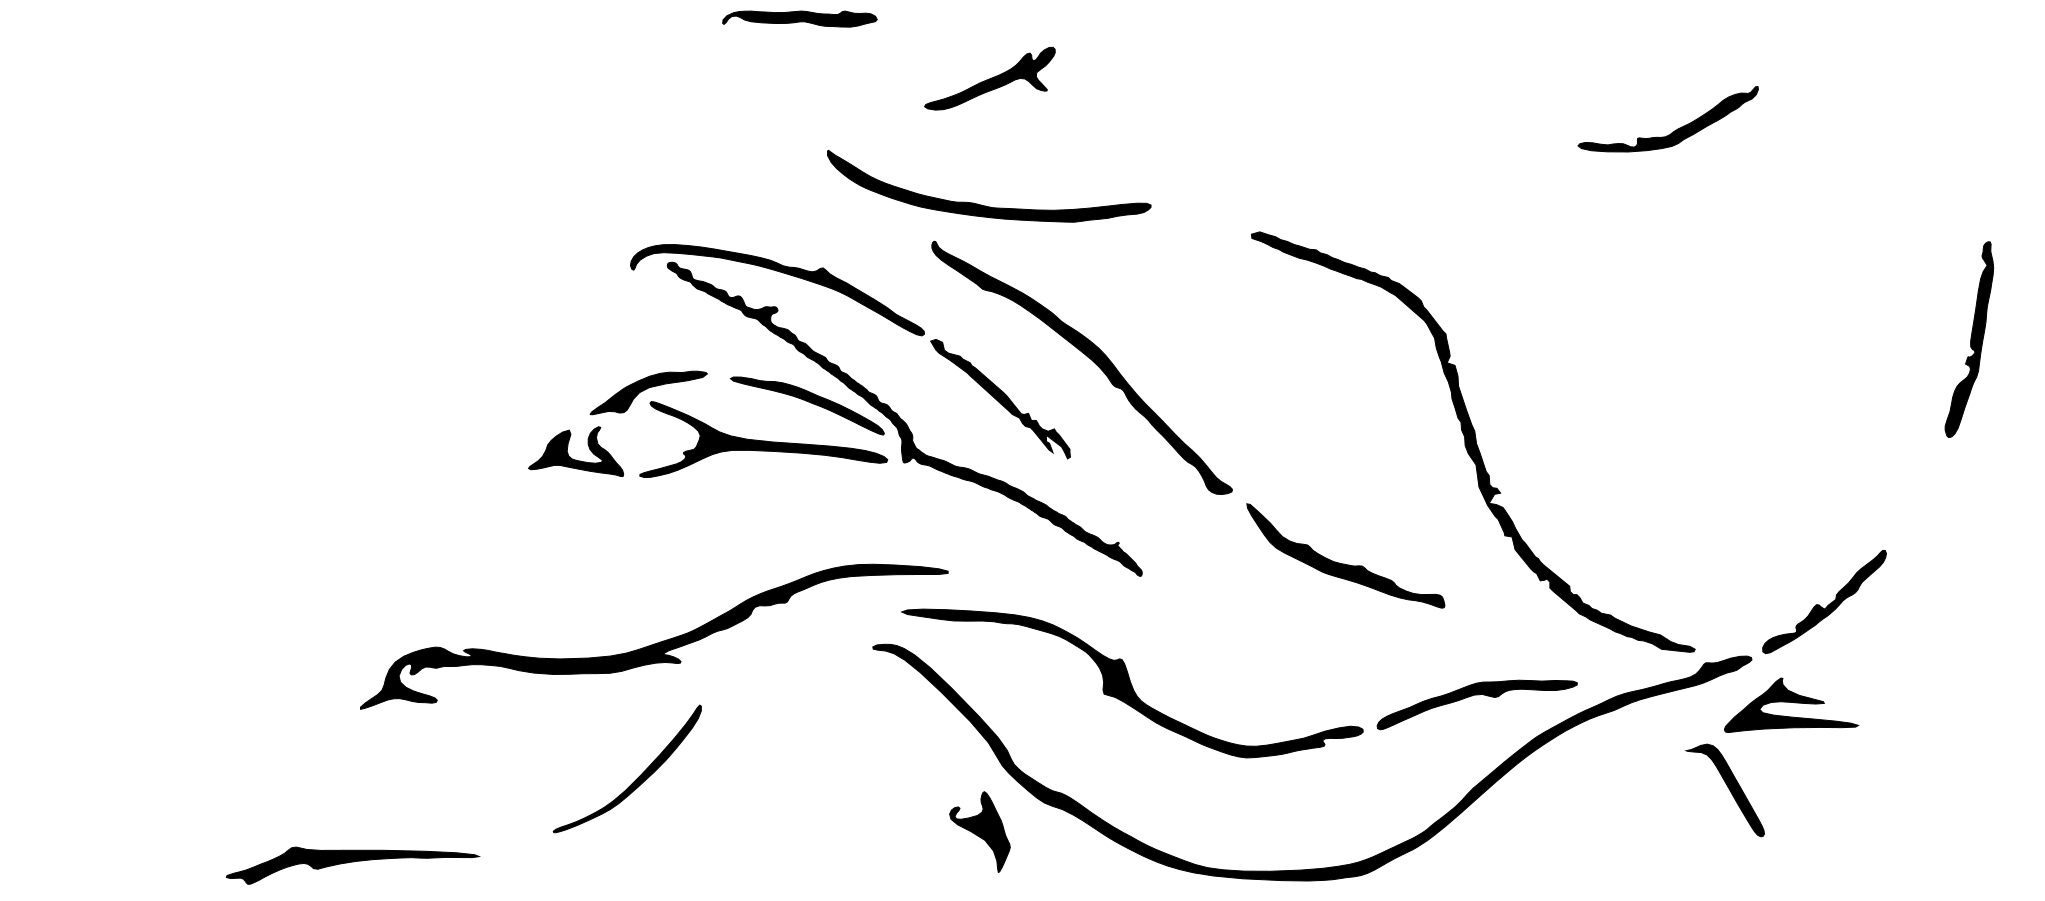
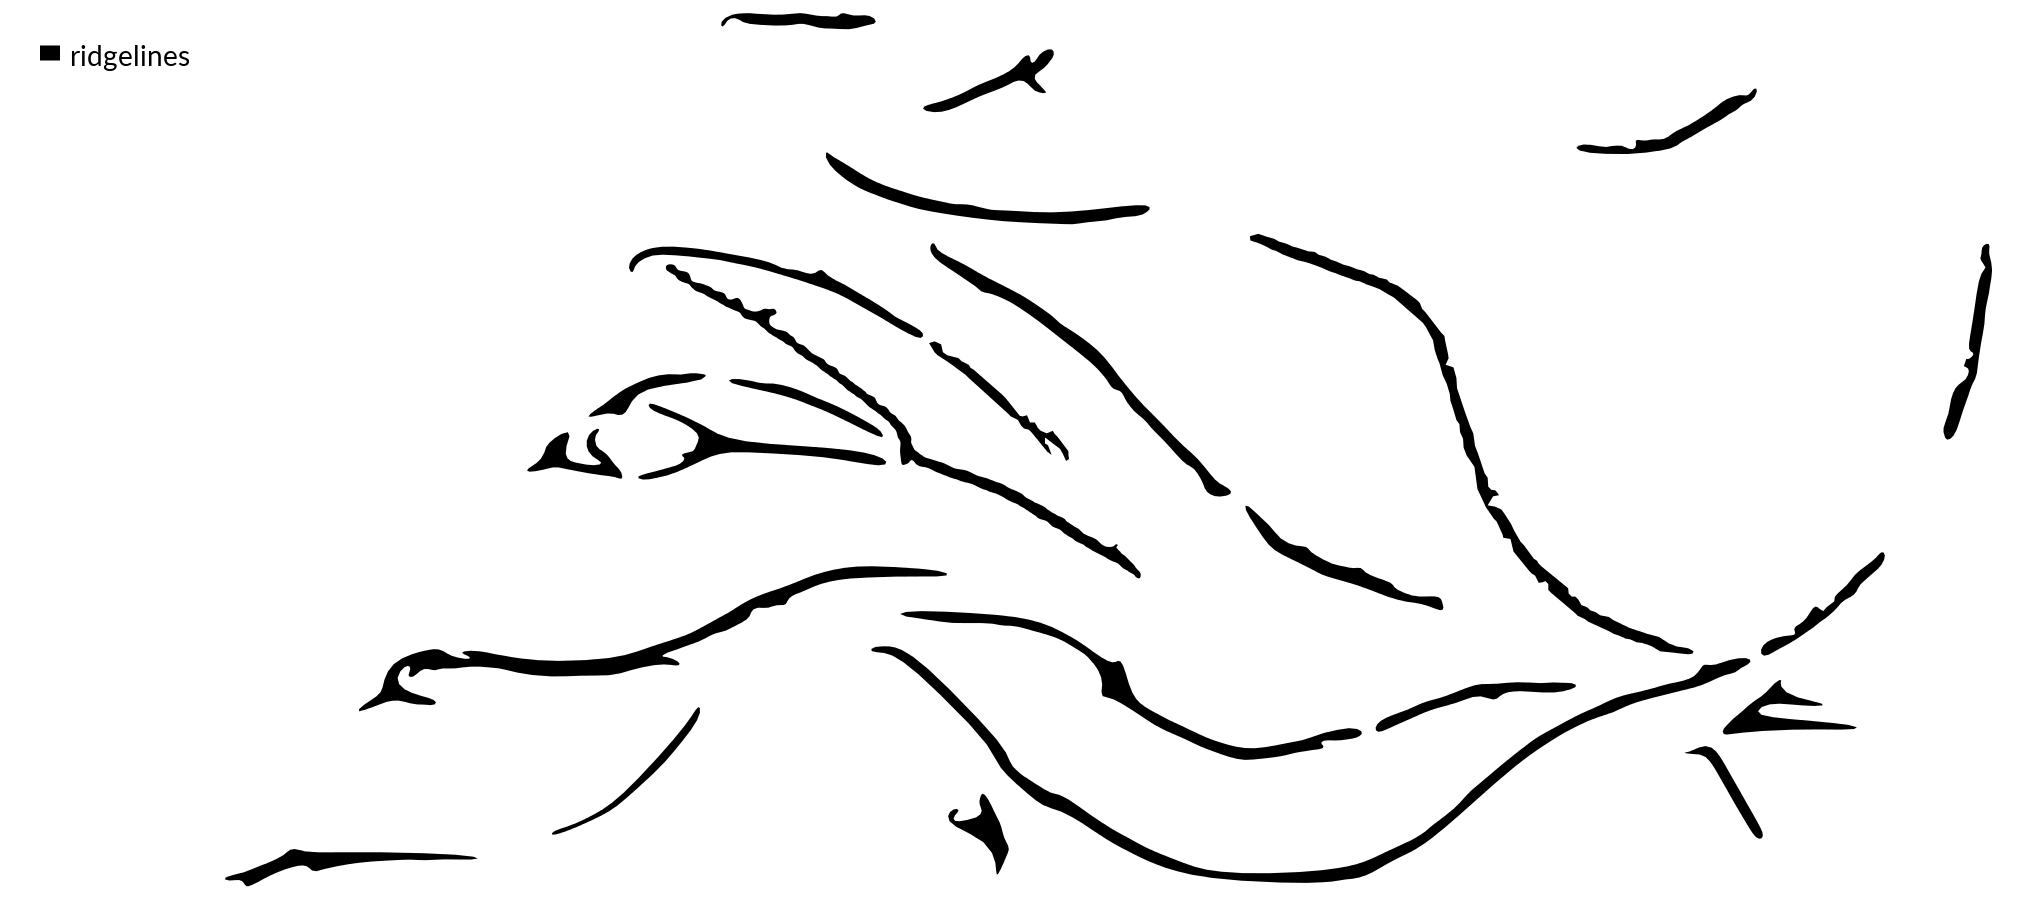
refactoring

diff --git a/_pages/courses.md b/_pages/courses.md
@@ -9,15 +9,15 @@ featured_image: images/
 
 ---
 
-[GIS for Designers](project/gis-for-designers): A guide to Geographic Information Systems for landscape architects, urban planners, and other designers. Topics include terrain modeling, hydrology, landscape ecology, and urban analytics. Software covered includes GRASS GIS, QGIS, and ArcGIS. Tutorials are posted on [<i class="fab fa-youtube"></i>](https://www.youtube.com/playlist?list=PLOZRfOojyTZooO3HMd8dTp8Wk37cdbY6C) Youtube and [<i class="fab fa-vimeo-v"></i>](https://vimeo.com/showcase/7356098) Vimeo.
+[GIS for Designers](gis-for-designers): A guide to Geographic Information Systems for landscape architects, urban planners, and other designers. Topics include terrain modeling, hydrology, landscape ecology, and urban analytics. Software covered includes GRASS GIS, QGIS, and ArcGIS. Tutorials are posted on [<i class="fab fa-youtube"></i>](https://www.youtube.com/playlist?list=PLOZRfOojyTZooO3HMd8dTp8Wk37cdbY6C) Youtube and [<i class="fab fa-vimeo-v"></i>](https://vimeo.com/showcase/7356098) Vimeo.
 
 ---
 
-[Generative Landscapes](project/generative-landscapes): A guide to visual programming for 3D modeling, geospatial modeling, and geospatial analysis of landscapes. Software covered includes Rhino, Grasshopper, GRASS GIS, ArcGIS, and Metashape. Tutorials are posted on [<i class="fab fa-youtube"></i>](https://www.youtube.com/playlist?list=PLOZRfOojyTZq7UyGd-uTx1HfQ2g3Bdo5y) Youtube and [<i class="fab fa-vimeo-v"></i>](https://vimeo.com/showcase/7366606) Vimeo.
+[Generative Landscapes](generative-landscapes): A guide to visual programming for 3D modeling, geospatial modeling, and geospatial analysis of landscapes. Software covered includes Rhino, Grasshopper, GRASS GIS, ArcGIS, and Metashape. Tutorials are posted on [<i class="fab fa-youtube"></i>](https://www.youtube.com/playlist?list=PLOZRfOojyTZq7UyGd-uTx1HfQ2g3Bdo5y) Youtube and [<i class="fab fa-vimeo-v"></i>](https://vimeo.com/showcase/7366606) Vimeo.
 
 ---
 
-[Digital Landscapes](project/digital-landscapes): An introduction to 3D modeling and 3D rendering landscapes. Software covered includes Rhino, Lumion, Thea Render, and Adobe CC. Tutorials are posted on [<i class="fab fa-youtube"></i>](https://www.youtube.com/playlist?list=PLOZRfOojyTZpMqTLmKCTasF9LkPIYLoHQ) Youtube and [<i class="fab fa-vimeo-v"></i>](https://vimeo.com/showcase/7366624) Vimeo.
+[Digital Landscapes](digital-landscapes): An introduction to 3D modeling and 3D rendering landscapes. Software covered includes Rhino, Lumion, Thea Render, and Adobe CC. Tutorials are posted on [<i class="fab fa-youtube"></i>](https://www.youtube.com/playlist?list=PLOZRfOojyTZpMqTLmKCTasF9LkPIYLoHQ) Youtube and [<i class="fab fa-vimeo-v"></i>](https://vimeo.com/showcase/7366624) Vimeo.
 
 ---
 

diff --git a/_pages/geomorphometry-in-grass.md b/_pages/geomorphometry-in-grass.md
@@ -198,12 +198,15 @@ Smooth the  boundaries of the areas using
 with the `snakes` or `hermite` method.
 Remove the intermediate cleaned and simplified maps with
 [g.remove](https://grass.osgeo.org/grass78/manuals/g.remove.html).
+Add a vector legend for the ridges with
+[d.legend.vect](https://grass.osgeo.org/grass78/manuals/d.legend.vect.html).
 ```
 r.to.vect -s input=ridges output=ridges type=area
 v.clean input=ridges output=ridges_cleaned type=point,line,area tool=rmarea thres=2
 v.generalize input=ridges_cleaned type=area output=ridges_generalized method=reumann threshold=2
 v.generalize input=ridges_generalized type=area output=ridges method=snakes threshold=2 alpha=1 beta=1 --overwrite
 g.remove -f type=vector name=ridges_cleaned,ridges_generalized
+d.legend.vect at=2,95 font=Lato-Regular fontsize=14
 ```
 
 | Vector Ridges |
@@ -249,6 +252,8 @@ and then smooth the  boundaries of the areas using
 [v.generalize](https://grass.osgeo.org/grass78/manuals/v.generalize.html).
 Remove the intermediate maps with
 [g.remove](https://grass.osgeo.org/grass78/manuals/g.remove.html).
+Add a vector legend for the ridgelines with
+[d.legend.vect](https://grass.osgeo.org/grass78/manuals/d.legend.vect.html).
 
 ```
 r.mapcalc expression="ridgelines = if(convergence <= -15, 1, null())"
@@ -257,6 +262,7 @@ v.clean input=ridgelines output=ridges_cleaned type=point,line,area tool=rmarea 
 v.generalize input=ridges_cleaned type=area output=ridges_generalized method=reumann threshold=2
 v.generalize input=ridges_generalized type=area output=ridgelines method=snakes threshold=2 alpha=1 beta=1 --overwrite
 g.remove -f type=vector name=ridges_cleaned,ridges_generalized
+d.legend.vect at=2,95 font=Lato-Regular fontsize=14
 ```
 
 | Ridges Derived from Topographic Divergence |
